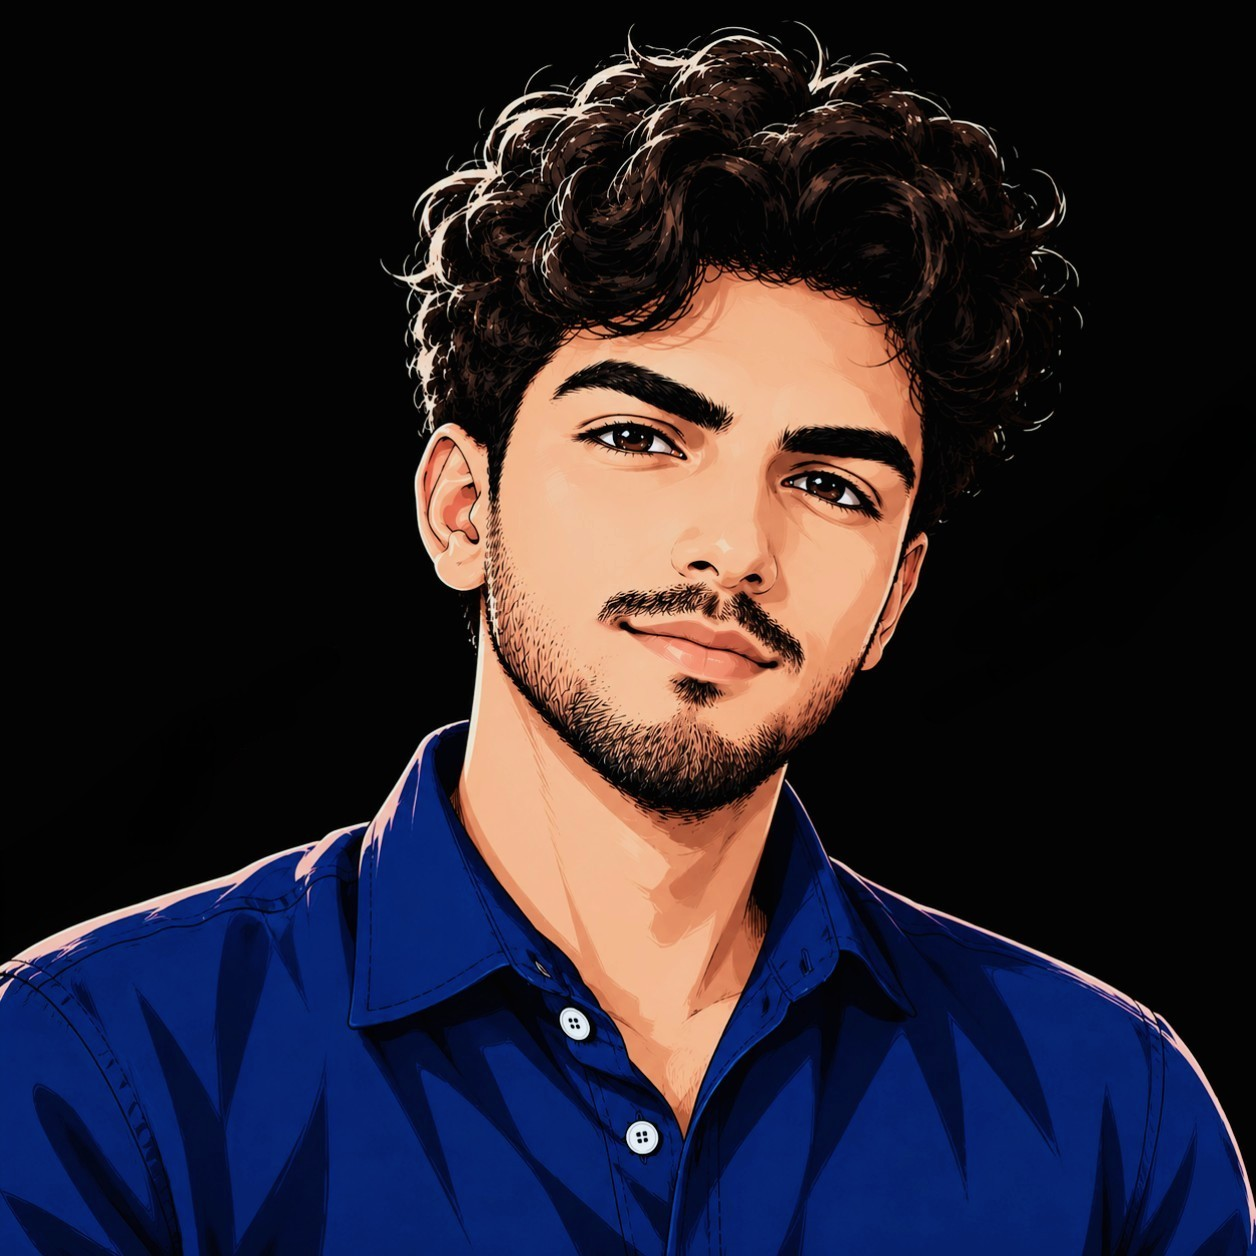
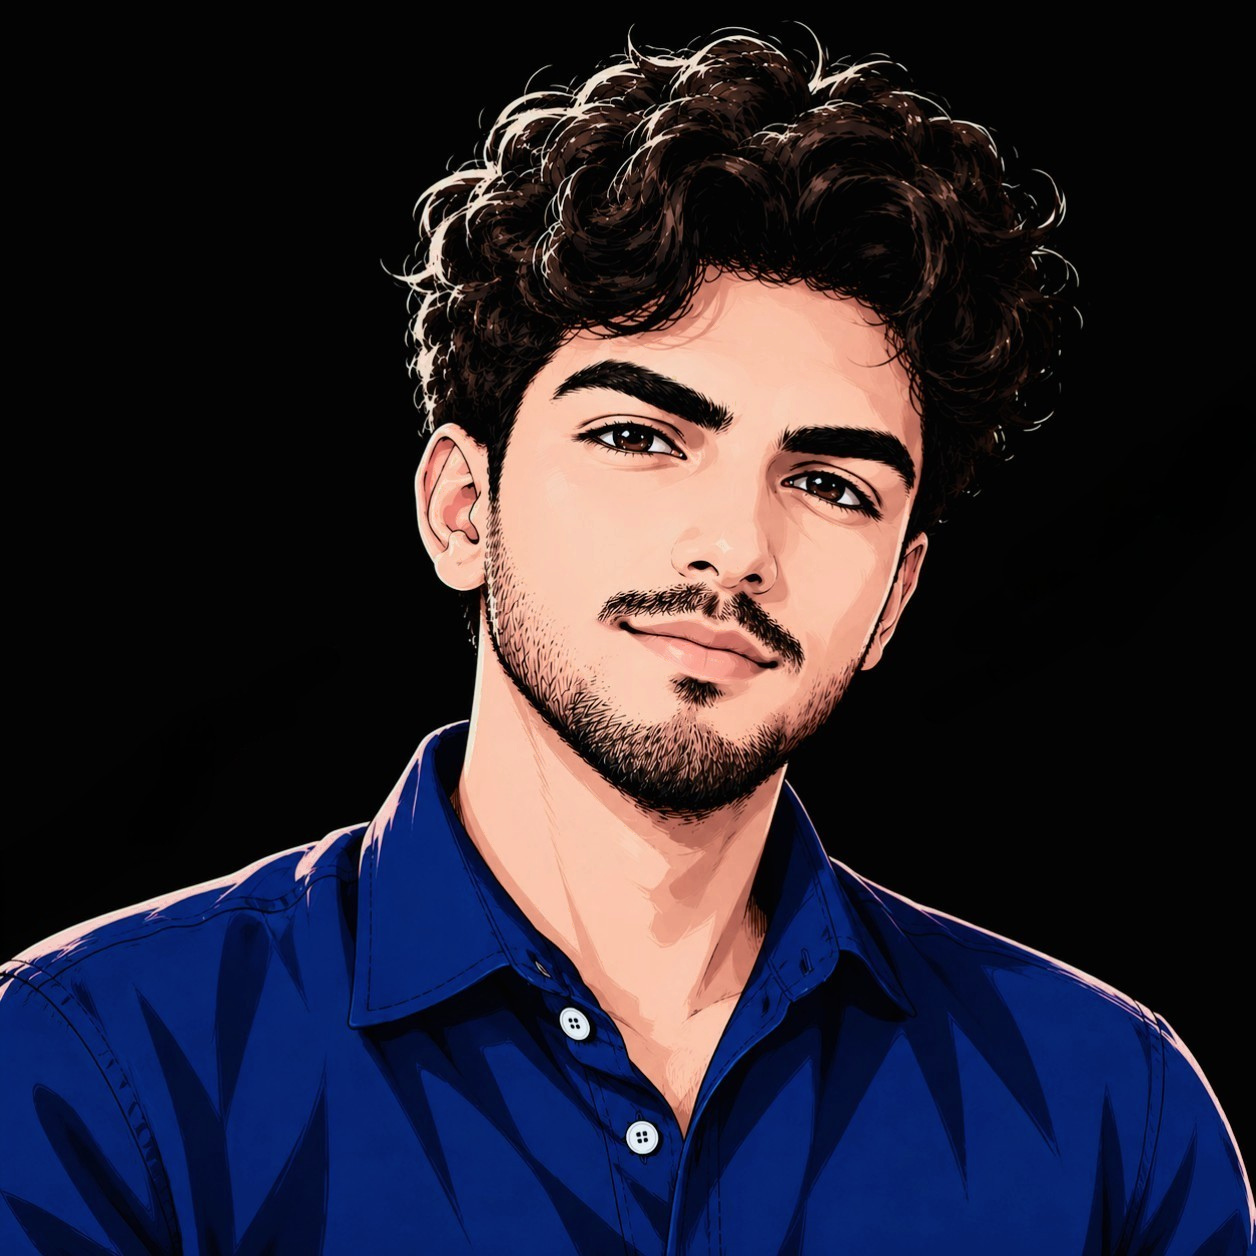
updates

Changed region(s): [[0.3105, 0.2174, 0.7452, 0.9005]]

diff --git a/portfolio/components/HeroSection.tsx b/portfolio/components/HeroSection.tsx
@@ -258,33 +258,33 @@ export function HeroSection({ avatarVersion }: { avatarVersion?: string } = {}) 
         }
 
         .h-full-divider {
-          width: calc(100% + var(--h-avatar-w));
-          margin-left: calc(-1 * var(--h-avatar-w));
+          width: 100%;
         }
 
         .h-avatar {
           width: 141px;
           min-width: 141px;
-          height: 130px;
-          min-height: 130px;
+          height: 141px;
+          min-height: 141px;
+          position: relative;
           flex-shrink: 0;
-          border-right: 1px solid var(--border);
           overflow: hidden;
           padding: 0;
-          display: flex;
-          align-items: flex-start;
-          justify-content: stretch;
-          border-radius: 22px;
+          border-radius: 50%;
           background-color: var(--bg-base);
-          /* Theme-switched in CSS: only the matching photo is ever fetched and
-             there is no flash on load. The photo is square and top-aligned. */
-          background-image: url(/avatar-dark.jpg${avatarVersion ? `?v=${avatarVersion}` : ""});
-          background-repeat: no-repeat;
-          background-size: 100% auto;
-          background-position: center -4px;
         }
-        html.light .h-avatar {
-          background-image: url(/avatar-light.jpg${avatarVersion ? `?v=${avatarVersion}` : ""});
+        .h-avatar::before {
+          content: "";
+          position: absolute;
+          inset: 0;
+          border: 1px solid var(--border);
+          border-radius: 50%;
+          background: url(/avatar-dark-8k.webp${avatarVersion ? `?v=${avatarVersion}` : ""}) center / cover no-repeat;
+          background-size: 108% 108%;
+          background-position: 55% 0%;
+        }
+        html.light .h-avatar::before {
+          background-image: url(/avatar-light-8k.webp${avatarVersion ? `?v=${avatarVersion}` : ""});
         }
         .name-plain { opacity: 0; }
         .h-nameblock {
@@ -356,9 +356,9 @@ export function HeroSection({ avatarVersion }: { avatarVersion?: string } = {}) 
           .h-avatar {
             width: clamp(220px, 32vw, 300px) !important;
             min-width: clamp(220px, 32vw, 300px) !important;
-            height: calc(clamp(220px, 32vw, 300px) - 14px) !important;
-            min-height: calc(clamp(220px, 32vw, 300px) - 14px) !important;
-            border-radius: 28px !important;
+            height: clamp(220px, 32vw, 300px) !important;
+            min-height: clamp(220px, 32vw, 300px) !important;
+            border-radius: 50% !important;
           }
           .h-nameblock h1 {
             font-size: clamp(32px, 5.8vw, 56px) !important;
@@ -370,6 +370,10 @@ export function HeroSection({ avatarVersion }: { avatarVersion?: string } = {}) 
           .h-verified-badge { width: clamp(20px, 4vw, 28px) !important; height: clamp(20px, 4vw, 28px) !important; }
           .h-nameblock {
             padding: 0 8px !important;
+          }
+          .h-full-divider {
+            width: calc(100% + 16px);
+            margin-left: -8px;
           }
           .h-nameblock > div:nth-child(2) {
             padding-top: 14px !important;
@@ -414,8 +418,8 @@ export function HeroSection({ avatarVersion }: { avatarVersion?: string } = {}) 
           .h-avatar {
             width: clamp(178px, 19.5vw, 199px) !important;
             min-width: clamp(178px, 19.5vw, 199px) !important;
-            height: calc(clamp(178px, 19.5vw, 199px) - 14px) !important;
-            min-height: calc(clamp(178px, 19.5vw, 199px) - 14px) !important;
+            height: clamp(178px, 19.5vw, 199px) !important;
+            min-height: clamp(178px, 19.5vw, 199px) !important;
           }
           .h-nameblock h1 {
             font-size: clamp(30px, 3.7vw, 42px) !important;
@@ -437,8 +441,8 @@ export function HeroSection({ avatarVersion }: { avatarVersion?: string } = {}) 
           .h-avatar {
             width: clamp(138px, calc(376.3px - 15.1vw), 198px) !important;
             min-width: clamp(138px, calc(376.3px - 15.1vw), 198px) !important;
-            height: clamp(125px, calc(363.3px - 15.1vw), 185px) !important;
-            min-height: clamp(125px, calc(363.3px - 15.1vw), 185px) !important;
+            height: clamp(138px, calc(376.3px - 15.1vw), 198px) !important;
+            min-height: clamp(138px, calc(376.3px - 15.1vw), 198px) !important;
           }
           .h-nameblock h1 {
             font-size: clamp(26px, calc(96px - 4.44vw), 42px) !important;
@@ -457,13 +461,11 @@ export function HeroSection({ avatarVersion }: { avatarVersion?: string } = {}) 
           .h-avatar {
             width: clamp(110px, calc(52px + 19.4vw), 168px) !important;
             min-width: clamp(110px, calc(52px + 19.4vw), 168px) !important;
-            height: calc(clamp(110px, calc(52px + 19.4vw), 168px) - 8px) !important;
-            min-height: calc(clamp(110px, calc(52px + 19.4vw), 168px) - 8px) !important;
-            border-right: 1px solid var(--border) !important;
-            border-bottom: none !important;
+            height: clamp(110px, calc(52px + 19.4vw), 168px) !important;
+            min-height: clamp(110px, calc(52px + 19.4vw), 168px) !important;
             overflow: hidden !important;
             padding: 0 !important;
-            border-radius: 18px !important;
+            border-radius: 50% !important;
           }
           .h-nameblock {
             flex: 1 !important;

diff --git a/portfolio/components/Timeline.tsx b/portfolio/components/Timeline.tsx
@@ -110,34 +110,40 @@ export function Timeline({ data }: { data: TimelineEntry[] }) {
         /* glass card: frosted pane, bright rim, specular sheen */
         .xp-card {
           position: relative; padding: 16px 18px 16px; border-radius: 16px; overflow: hidden;
-          background: linear-gradient(135deg, rgba(255,255,255,0.12) 0%, rgba(255,255,255,0.04) 46%, rgba(255,255,255,0.08) 100%);
-          border: 1px solid rgba(255,255,255,0.16);
+          background: linear-gradient(135deg, rgba(190,205,225,0.12) 0%, rgba(130,150,175,0.045) 46%, rgba(175,195,220,0.09) 100%);
+          border: 1px solid rgba(230,242,255,0.18);
           box-shadow:
             inset 0 1px 0 rgba(255,255,255,0.30),
             inset 0 -1px 0 rgba(255,255,255,0.05),
-            inset 0 0 28px rgba(255,255,255,0.03),
+            inset 0 0 28px rgba(255,255,255,0.04),
             0 16px 34px -16px rgba(0,0,0,0.75);
-          -webkit-backdrop-filter: blur(16px) saturate(155%);
-          backdrop-filter: blur(16px) saturate(155%);
+          -webkit-backdrop-filter: blur(20px) saturate(160%);
+          backdrop-filter: blur(20px) saturate(160%);
           transition: border-color 0.2s ease, box-shadow 0.2s ease;
         }
         .xp-card::before {
           content: ""; position: absolute; inset: 0; pointer-events: none; border-radius: inherit;
-          background: linear-gradient(115deg, rgba(255,255,255,0.20) 0%, rgba(255,255,255,0.05) 22%, rgba(255,255,255,0) 40%);
+          background: linear-gradient(115deg, rgba(255,255,255,0.20) 0%, rgba(255,255,255,0.045) 22%, rgba(255,255,255,0) 43%);
         }
         .xp-card > * { position: relative; }
-        .xp-card:hover { border-color: rgba(10,186,181,0.55); box-shadow: inset 0 1px 0 rgba(255,255,255,0.4), inset 0 0 28px rgba(10,186,181,0.07), 0 18px 38px -16px rgba(0,0,0,0.8); }
+        .xp-card:hover { border-color: rgba(10,186,181,0.55); box-shadow: inset 0 1px 0 rgba(255,255,255,0.34), inset 0 0 28px rgba(10,186,181,0.08), 0 18px 38px -16px rgba(0,0,0,0.8); }
         html.light .xp-card {
-          background: linear-gradient(135deg, rgba(255,255,255,0.72) 0%, rgba(255,255,255,0.38) 50%, rgba(255,255,255,0.6) 100%);
-          border-color: rgba(255,255,255,0.95);
+          background: linear-gradient(135deg, rgba(255,255,255,0.62) 0%, rgba(216,231,250,0.32) 50%, rgba(246,250,255,0.52) 100%);
+          border-color: rgba(255,255,255,0.86);
           box-shadow:
-            inset 0 1px 0 rgba(255,255,255,1),
-            inset 0 -1px 0 rgba(20,40,80,0.05),
-            0 14px 30px -14px rgba(36,58,96,0.35),
-            0 0 0 1px rgba(20,40,80,0.06);
+            inset 0 1px 0 rgba(255,255,255,0.92),
+            inset 0 -1px 0 rgba(20,40,80,0.09),
+            inset 0 0 28px rgba(255,255,255,0.38),
+            0 16px 34px -14px rgba(36,58,96,0.27),
+            0 0 0 1px rgba(70,105,155,0.12);
+          -webkit-backdrop-filter: blur(24px) saturate(180%);
+          backdrop-filter: blur(24px) saturate(180%);
         }
-        html.light .xp-card::before { background: linear-gradient(115deg, rgba(255,255,255,0.85) 0%, rgba(255,255,255,0.25) 24%, rgba(255,255,255,0) 42%); }
-        html.light .xp-card:hover { border-color: rgba(10,186,181,0.7); }
+        html.light .xp-card::before { background: linear-gradient(115deg, rgba(255,255,255,0.92) 0%, rgba(255,255,255,0.28) 24%, rgba(255,255,255,0) 44%); }
+        html.light .xp-card:hover {
+          border-color: rgba(10,186,181,0.7);
+          box-shadow: inset 0 1px 0 rgba(255,255,255,0.96), inset 0 0 28px rgba(10,186,181,0.09), 0 18px 36px -14px rgba(36,58,96,0.38);
+        }
         .xp-period-inline { display: none; }
         .xp-head { display: flex; flex-wrap: wrap; align-items: center; gap: 8px 10px; }
         .xp-role { font-family: ${SF}; font-size: 17px; font-weight: 700; letter-spacing: -0.02em; line-height: 1.25; color: var(--text-primary); }

diff --git a/portfolio/app/globals.css b/portfolio/app/globals.css
@@ -32,7 +32,6 @@
 :root, html.dark {
   --bg-base:        #000000;
   --bg-base-edge:   #0a0a0a;
-  --page-surrounding: #18181b;
   --bg-secondary:   rgba(10,10,12,0.55);
   --bg-hover:       rgba(22,22,25,0.80);
   --bg-card:        #0d0d0f;
@@ -52,8 +51,8 @@
   --pattern-dot:    rgba(255,255,255,0.08);
   --pattern-dot-active: rgba(255,255,255,0.18);
  
-  --nav-bg:         rgba(24,24,27,0.32);
-  --nav-bg-scrolled: rgba(24,24,27,0.55);
+  --nav-bg:         rgba(0,0,0,0.32);
+  --nav-bg-scrolled: rgba(0,0,0,0.55);
   --nav-border:     rgba(255,255,255,0.06);
   --nav-link-color: rgba(255,255,255,0.45);
   --nav-link-hover: #fafafa;
@@ -82,7 +81,6 @@
 html.light {
   --bg-base:        #edf1f5;
   --bg-base-edge:   #e6e6e2;
-  --page-surrounding: #f5f0e6;
   --bg-secondary:   rgba(255,255,255,0.92);
   --bg-hover:       rgba(242,242,240,0.95);
   --bg-card:        #ffffff;
@@ -102,8 +100,8 @@ html.light {
   --pattern-dot:    rgba(0,0,0,0.10);
   --pattern-dot-active: rgba(0,0,0,0.22);
  
-  --nav-bg:         rgba(245,240,230,0.32);
-  --nav-bg-scrolled: rgba(245,240,230,0.55);
+  --nav-bg:         rgba(237,241,245,0.32);
+  --nav-bg-scrolled: rgba(237,241,245,0.55);
   --nav-border:     rgba(0,0,0,0.06);
   --nav-link-color: rgba(0,0,0,0.45);
   --nav-link-hover: #1a1a1a;
@@ -120,7 +118,10 @@ html.light {
 }
  
 html {
-  background: var(--page-surrounding);
+  background: #000000;
+}
+html.light {
+  background: #edf1f5;
 }
 /* ═══════════════════════════════════════════════════════════
    RESET
@@ -212,7 +213,7 @@ a, button, [role="button"] {
    width is controlled from one place.
 ═══════════════════════════════════════════════════════════ */
 :root {
-  --content-width: 950px;
+  --content-width: 900px;
   --content-width-inset: calc(var(--content-width) - 40px);
   --page-pad: 16px;
 }
@@ -1004,7 +1005,7 @@ html.light .fb-canvas { box-shadow: 0 18px 34px -20px rgba(36,58,96,0.5), 0 0 0 
   width: 100%;
   max-width: var(--content-width-inset);
   margin-inline: auto;
-  background: var(--page-surrounding);
+  background: var(--bg-base);
 }
 .sections-panel.s3d {
   width: 100%;

diff --git a/portfolio/app/layout.tsx b/portfolio/app/layout.tsx
@@ -102,7 +102,7 @@ export default function RootLayout({
             is fetched in parallel with JS instead of after hydration. */}
         <script
           dangerouslySetInnerHTML={{
-            __html: `(function(){try{var t=localStorage.getItem('theme');var d=t?t==='dark':true;var l=document.createElement('link');l.rel='preload';l.as='image';l.fetchPriority='high';l.href='/avatar-'+(d?'dark':'light')+'.jpg?v=${avatarVersion}';document.head.appendChild(l);}catch(e){}})();`,
+            __html: `(function(){try{var t=localStorage.getItem('theme');var d=t?t==='dark':true;var l=document.createElement('link');l.rel='preload';l.as='image';l.fetchPriority='high';l.href='/avatar-'+(d?'dark':'light')+'-8k.webp?v=${avatarVersion}';document.head.appendChild(l);}catch(e){}})();`,
           }}
         />
 
@@ -173,7 +173,7 @@ export default function RootLayout({
                 var stored = null;
                 try { stored = localStorage.getItem('theme'); } catch (e) {}
                 var isDark = stored ? stored === 'dark' : true;
-                var src = (isDark ? '/avatar-dark.jpg' : '/avatar-light.jpg') + '?v=${avatarVersion}';
+                var src = (isDark ? '/avatar-dark-8k.webp' : '/avatar-light-8k.webp') + '?v=${avatarVersion}';
                 var shell = document.createElement('div');
                 shell.id = 'intro-shell';
                 // This shell owns the entire loading-hold visual by

diff --git a/portfolio/lib/avatar.ts b/portfolio/lib/avatar.ts
@@ -11,8 +11,8 @@ export function getAvatarVersion(): string {
   try {
     const dir = path.join(process.cwd(), "public");
     return createHash("md5")
-      .update(readFileSync(path.join(dir, "avatar-dark.jpg")))
-      .update(readFileSync(path.join(dir, "avatar-light.jpg")))
+      .update(readFileSync(path.join(dir, "avatar-dark-8k.webp")))
+      .update(readFileSync(path.join(dir, "avatar-light-8k.webp")))
       .digest("hex")
       .slice(0, 10);
   } catch {
